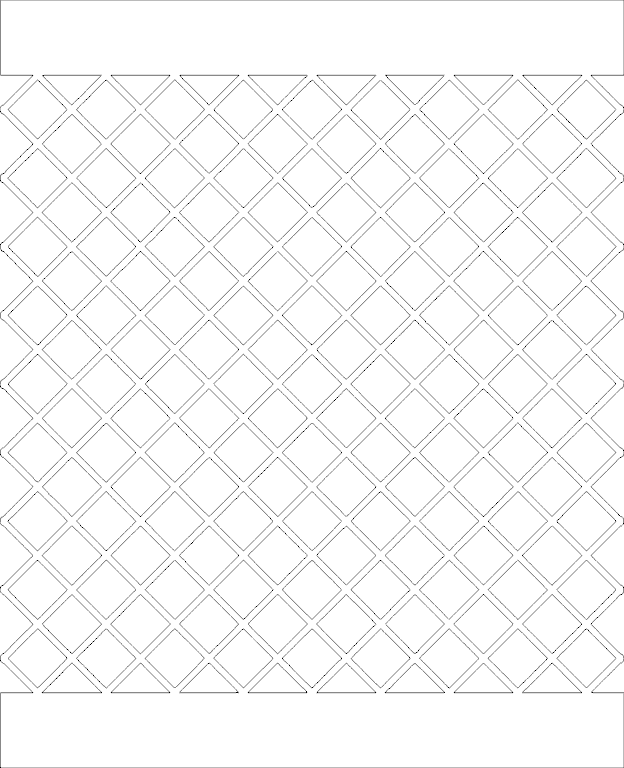
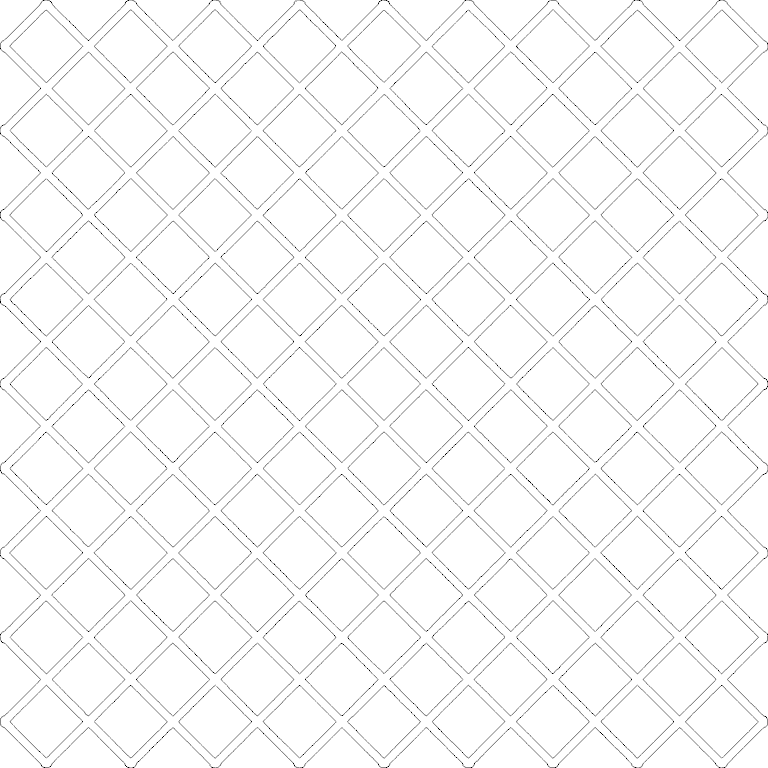
test

diff --git a/src/test5.py b/src/test5.py
@@ -1,0 +1,103 @@
+import json
+
+import numpy as np
+import pyvista as pv
+
+
+BRIAN_JSON = (
+    'data/missing_struts/registered_jsons/'
+    '210127_Brian_Tran_strut_lattices_0point5dash1 1 Slices.json'
+)
+REFERENCE_JSON = 'data/missing_struts/octet_truss_9x9x9.json'
+STL_PATH = 'data/missing_struts/stls/0.5.stl'
+
+
+def load_junction_points(filepath):
+    with open(filepath) as file:
+        data = json.load(file)
+    junctions = sorted(data['junctions'], key=lambda junction: junction['id'])
+    return np.asarray([junction['position'] for junction in junctions], dtype=float)
+
+
+reference_points = load_junction_points(REFERENCE_JSON)
+brian_points = load_junction_points(BRIAN_JSON)
+
+# Fit Brian coordinates from reference coordinates:
+# brian = scale * (reference @ rotation.T) + translation
+reference_centered = reference_points - reference_points.mean(axis=0)
+brian_centered = brian_points - brian_points.mean(axis=0)
+u, s, vt = np.linalg.svd(brian_centered.T @ reference_centered)
+d = np.sign(np.linalg.det(u @ vt))
+rotation = u @ np.diag([1, 1, d]) @ vt          # brian ≈ rotation @ reference
+
+scale = np.sum(brian_centered * (reference_centered @ rotation.T)) / np.sum(
+    reference_centered**2
+)
+translation = brian_points.mean(axis=0) - scale * (
+    reference_points.mean(axis=0) @ rotation.T
+)
+
+fit = scale * (reference_points @ rotation.T) + translation
+fit_error = np.sqrt(np.mean((fit - brian_points) ** 2))
+
+# Express both JSON bounding regions in the reference frame and intersect them.
+reference_min = reference_points.min(axis=0)
+reference_max = reference_points.max(axis=0)
+brian_in_reference = (brian_points - translation) @ rotation / scale
+brian_min = brian_in_reference.min(axis=0)
+brian_max = brian_in_reference.max(axis=0)
+common_min = np.maximum(reference_min, brian_min)
+common_max = np.minimum(reference_max, brian_max)
+
+# The STL has an additional 9x9x1 metal box at the low-z end.  One lattice
+# cell is 18 / 9 = 2 reference units thick, so exclude that layer.
+outer_box_thickness = 18.0 / 9.0
+common_min[2] += outer_box_thickness
+
+if np.any(common_min >= common_max):
+    raise ValueError('The two JSON bounding regions do not overlap.')
+
+tilt_degrees = np.degrees(np.arccos(np.clip((np.trace(rotation) - 1) / 2, -1, 1)))
+print(f'Scale (Brian / reference): {scale:.8f}')
+print(f'Tilt angle: {tilt_degrees:.8f} degrees')
+print(f'Registration RMS error: {fit_error:.3e}')
+print('Common bounds in reference coordinates:', common_min, common_max)
+
+# The STL is centered in its own coordinates, rather than already being in
+# Brian JSON coordinates. Rotate it so its long original y direction is z,
+# translate its minimum corner to the origin, and scale it into reference
+# JSON units before cropping.
+mesh = pv.read(STL_PATH)
+mesh.rotate_x(90, inplace=True)
+stl_min = np.asarray(mesh.bounds[::2])
+stl_extent = np.asarray(mesh.bounds[1::2]) - stl_min
+stl_to_reference_scale = 18.0 / min(stl_extent[0], stl_extent[1], stl_extent[2])
+
+mesh_in_reference = mesh.copy()
+mesh_in_reference.points = (mesh.points - stl_min) * stl_to_reference_scale
+
+cropped_reference = mesh_in_reference.clip_box(
+    bounds=[
+        common_min[0], common_max[0],
+        common_min[1], common_max[1],
+        common_min[2], common_max[2],
+    ],
+    invert=False,
+)
+cropped_mesh = cropped_reference.copy()
+cropped_mesh.points = (
+    cropped_reference.points / stl_to_reference_scale + stl_min
+)
+
+print(f'STL-to-reference scale: {stl_to_reference_scale:.8f}')
+print('Cropped STL bounds:', cropped_mesh.bounds)
+
+plotter = pv.Plotter()
+plotter.add_mesh(cropped_mesh, color='silver', smooth_shading=True)
+plotter.add_axes()
+surface_mesh = cropped_mesh.extract_surface()
+
+surface_mesh.save("0.5_skew.stl")
+
+plotter.camera.zoom('tight')
+plotter.show()

diff --git a/src/test3.py b/src/test3.py
@@ -6,8 +6,10 @@ import pyvista as pv
 import trimesh
 
 # --- Load STL ---
-mesh = trimesh.load('data/missing_struts/stls/0.stl')
-pv_mesh = pv.read('data/missing_struts/stls/0.stl')
+# mesh = trimesh.load('data/missing_struts/stls/0.stl')
+# pv_mesh = pv.read('data/missing_struts/stls/0.stl')
+mesh = trimesh.load('model_lattice_only.stl')
+pv_mesh = pv.read('model_lattice_only.stl')
 
 # Translate STL so its min bound sits at (0,0,0)
 stl_min = np.array(mesh.bounds[0])
@@ -41,9 +43,47 @@ lines = np.array(lines)
 lattice = pv.PolyData(points_scaled, lines=lines)
 lattice_tubes = lattice.tube(radius=0.1)
 
+# junction_pts = np.array([j['position'] for j in junctions])
+# json_min = junction_pts.min(axis=0)
+# json_max = junction_pts.max(axis=0)
+# json_extents = json_max - json_min   # this is it — shape (3,), one value per X/Y/Z
+
+# # JSON: 9 unit cells across each axis
+# json_cell_size = json_extents / 9
+# print("JSON cell size (design units):", json_cell_size)
+
+# stl_extents = mesh.bounds[1] - mesh.bounds[0]
+
+# # STL: 9 cells in X/Z, but 11 "cells" in Y (9 real + 2 metal, per your observation)
+# stl_cell_size_xz = np.array([stl_extents[0] / 9, stl_extents[2] / 9])
+# stl_cell_size_y = stl_extents[1] / 11
+# print("STL cell size X/Z:", stl_cell_size_xz)
+# print("STL cell size Y:", stl_cell_size_y)
+
+# stl_cell_size = np.mean([4.61030854, 4.61062431, 4.640000430020419])
+# print("STL cell size (avg):", stl_cell_size)
+
+# json_cell_size_scalar = json_cell_size.mean()  # from earlier, ~79.4-ish per axis
+# print("JSON cell size (avg):", json_cell_size_scalar)
+
+# scale_factor = json_cell_size_scalar / stl_cell_size
+# print("Corrected scale factor:", scale_factor)
+
 # --- Overlay ---
 pl = pv.Plotter()
 pl.add_mesh(pv_mesh, color='silver', opacity=0.4)
 pl.add_mesh(lattice_tubes, color='black')
 pl.add_axes()
 pl.show()
+
+# cell_len_y = 4.640000430020419  # one Y-cell length in STL units
+
+# y_min, y_max = mesh.bounds[0][1], mesh.bounds[1][1]
+# new_y_min = y_min + cell_len_y   # remove 1 cell from the bottom
+# new_y_max = y_max - cell_len_y   # remove 1 cell from the top
+
+# cropped = mesh.slice_plane(plane_origin=[0, new_y_min, 0], plane_normal=[0, 1, 0])
+# cropped = cropped.slice_plane(plane_origin=[0, new_y_max, 0], plane_normal=[0, -1, 0])
+# cropped.export('model_lattice_only.stl')
+
+# print("Cropped extents:", cropped.bounds[1] - cropped.bounds[0])

diff --git a/src/test4.py b/src/test4.py
@@ -1,0 +1,69 @@
+import json
+import numpy as np
+import pyvista as pv
+
+# Load data
+with open('data/missing_struts/registered_jsons/210127_Brian_Tran_strut_lattices_0point5dash1 1 Slices.json') as f:
+    data = json.load(f)
+
+junctions = data['junctions']
+struts = data['struts']
+
+# Build points array, indexed by junction id
+max_id = max(j['id'] for j in junctions)
+points = np.zeros((max_id + 1, 3))
+for j in junctions:
+    points[j['id']] = j['position']
+
+# Build line connectivity: PyVista wants [n_points_in_line, p0, p1, n_points_in_line, p0, p1, ...]
+lines = []
+for s in struts:
+    lines.extend([2, s['junction0'], s['junction1']])
+lines = np.array(lines)
+
+scale_factor = 39.49  # from earlier X/Z agreement
+points_scaled = points / scale_factor
+
+# Translate JSON points so its min bound sits at (0,0,0)
+json_min = points_scaled.min(axis=0)
+points_scaled = points_scaled - json_min
+
+# Create PolyData of line segments
+lattice = pv.PolyData(points_scaled, lines=lines)
+
+# Convert lines -> tubes (cylinders) using the strut thickness
+# thickness = 0.1 for all struts, so radius = thickness / 2
+lattice_tubes = lattice.tube(radius=0.1)
+
+plotter = pv.Plotter()
+plotter.add_mesh(lattice_tubes, color='silver', smooth_shading=True)
+
+with open('data/missing_struts/octet_truss_9x9x9.json') as f:
+    data = json.load(f)
+
+junctions = data['junctions']
+struts = data['struts']
+
+# Build points array, indexed by junction id
+max_id = max(j['id'] for j in junctions)
+points = np.zeros((max_id + 1, 3))
+for j in junctions:
+    points[j['id']] = j['position']
+
+# Build line connectivity: PyVista wants [n_points_in_line, p0, p1, n_points_in_line, p0, p1, ...]
+lines = []
+for s in struts:
+    lines.extend([2, s['junction0'], s['junction1']])
+lines = np.array(lines)
+
+# Create PolyData of line segments
+lattice = pv.PolyData(points, lines=lines)
+
+# Convert lines -> tubes (cylinders) using the strut thickness
+# thickness = 0.1 for all struts, so radius = thickness / 2
+thickness = 1
+lattice_tubes = lattice.tube(radius=0.1)
+
+plotter.add_mesh(lattice_tubes, color='black', smooth_shading=True, opacity=0.4)
+
+plotter.show()

diff --git a/src/mcp_server.py b/src/mcp_server.py
@@ -8,6 +8,7 @@ from tool_opencv import *
 import cv2
 import pyvista as pv
 import matplotlib.pyplot as plt
+import tifffile
 
 # Initialize the MCP server
 mcp = FastMCP("CT Segmentation")
@@ -26,7 +27,10 @@ def segment_ct_dataset(input_filepath: str, output_filepath: str, threshold: flo
         A status message indicating success and the save location, or an error message.
     """
     try:
-        voxels = np.load(input_filepath)
+        if input_filepath.lower().endswith(('.tif', '.tiff')):
+            voxels = tifffile.imread(input_filepath)
+        else:
+            voxels = np.load(input_filepath)
         mask = (voxels >= threshold).astype(np.uint8)
         np.save(output_filepath, mask)
     except Exception as e:
@@ -103,10 +107,12 @@ def pyvista_screenshot(input_filepath: str, output_filepath: str, slice: int):
 def bitwise_xor_skeletion(input_filepath_1: str, input_filepath_2: str, output_filepath: str):
     """
     Takes in two skeletonized images and get a bitwise xor of both images.
+
     Args:
         input_filepath_1: Path to the skeletonized image file 1
         input_filepath_2: Path to the skeletonized image file 2
         output_filepath: Path to save the screenshot
+
     Returns:
         A status message indicating success and the save location, or an error message
     """
@@ -121,11 +127,13 @@ def create_image_rectangle(input_filepath: str, output_filepath: str, top_left_p
     """
     Takes in an image file and two points (x, y) which indicates the top left and bottom right of the rectangle.
     This creates a rectangle on the image.
+
     Args:
         input_filepath: Path to the skeletonized image file
         output_filepath: Path to the outputted image file
         top_left_point: A tuple (x, y) corresponding to the top left conrer of the rectangle
         bottom_right_point: A tuple (x, y) corresponding to the bottom right conrer of the rectangle
+
     Returns:
         An image with the rectangle box added to it.
     """

diff --git a/src/test6.py b/src/test6.py
@@ -1,0 +1,40 @@
+import os
+import numpy as np
+import tifffile
+from PIL import Image
+
+
+def load_volume(input_filepath: str) -> np.ndarray:
+    ext = os.path.splitext(input_filepath)[1].lower()
+    if ext == '.npy':
+        voxels = np.load(input_filepath, allow_pickle=True)
+        if voxels.dtype == object and voxels.shape == ():
+            voxels = voxels.item()
+            if isinstance(voxels, dict):
+                voxels = voxels.get('voxels', voxels.get('data'))
+        voxels = np.asarray(voxels)
+    elif ext in ('.tif', '.tiff'):
+        voxels = tifffile.imread(input_filepath)
+    else:
+        raise ValueError(f'Unsupported file extension: {ext}')
+    return voxels
+
+
+def visualize_slice(input_filepath: str, output_filepath: str, slice_index: int, axis: int = 0) -> str:
+    try:
+        voxels = load_volume(input_filepath)
+        slice_ = np.take(voxels, slice_index, axis=axis)
+
+        slice_min, slice_max = slice_.min(), slice_.max()
+        if slice_max > slice_min:
+            normalized = ((slice_ - slice_min) / (slice_max - slice_min) * 255).astype(np.uint8)
+        else:
+            normalized = np.zeros_like(slice_, dtype=np.uint8)
+
+        Image.fromarray(normalized).save(output_filepath)
+    except Exception as e:
+        return f"Error while running visualize_slice: {e}"
+    return f"Dataset has been sliced and saved to {output_filepath}"
+
+print(visualize_slice('data/missing_struts/tif_stacks/210127_Brian_Tran_strut_lattices_0point5dash1 1 Slices.tif',
+                'slices/z100_tan.png', 100, 0))

diff --git a/src/tool_opencv.py b/src/tool_opencv.py
@@ -13,7 +13,11 @@ def bitwise_xor(input_filepath_1: str, input_filepath_2: str, output_filepath: s
         return False
 
 def create_rectangle(input_filepath: str, output_filepath: str, top_left_point: tuple, bottom_right_point: tuple):
-    image = cv2.imread(input_filepath)
-    cv2.rectangle(image, top_left_point, bottom_right_point, (0, 0, 255), 2)
-    cv2.imwrite(output_filepath, image)
-    return True
+    try:
+        image = cv2.imread(input_filepath)
+        cv2.rectangle(image, top_left_point, bottom_right_point, (0, 0, 255), 2)
+        cv2.imwrite(output_filepath, image)
+        return True
+    except Exception as e:
+        print(f"Error while creating a rectangle: {e}")
+        return False

diff --git a/src/pyvista_tools.py b/src/pyvista_tools.py
@@ -13,7 +13,7 @@ def load_stl(input_filepath: str, output_filepath: str):
     print(get_bounds(mesh))
     # pl = pv.Plotter(off_screen=True)
     pl = pv.Plotter()
-    pl.add_mesh(mesh, color='black')
+    pl.add_mesh(mesh)
     pl.camera_position = 'xy'
     # pl.camera.zoom('tight')
     # pl.show(screenshot='test.png')
@@ -55,6 +55,6 @@ def slice_stl(input_filepath, height):
     
 
 
-slice_stl('data/missing_struts/stls/0.stl', 0)
+load_stl('0_skew.stl', 0)
 # load_stl('data/missing_struts/stls/0.stl')
 # load_stl('model_aligned.stl')

diff --git a/src/tool_pyvista.py b/src/tool_pyvista.py
@@ -39,7 +39,6 @@ def load(input_filepath: str):
     mesh = pv.read(input_filepath)
     return mesh
 
-mesh = load('data/missing_struts/stls/0.stl')
-screenshot_slice(mesh, 0, 'slices/z0_0.png')
-mesh = load('data/missing_struts/stls/0.5.stl')
-screenshot_slice(mesh, 0, 'slices/z0_0.5.png')
+# mesh = load('data/missing_struts/stls/0.stl')
+mesh = load('0.5_skew.stl')
+screenshot_slice(mesh, -16.1, 'slices/z0_0.5_100_skew.png')
